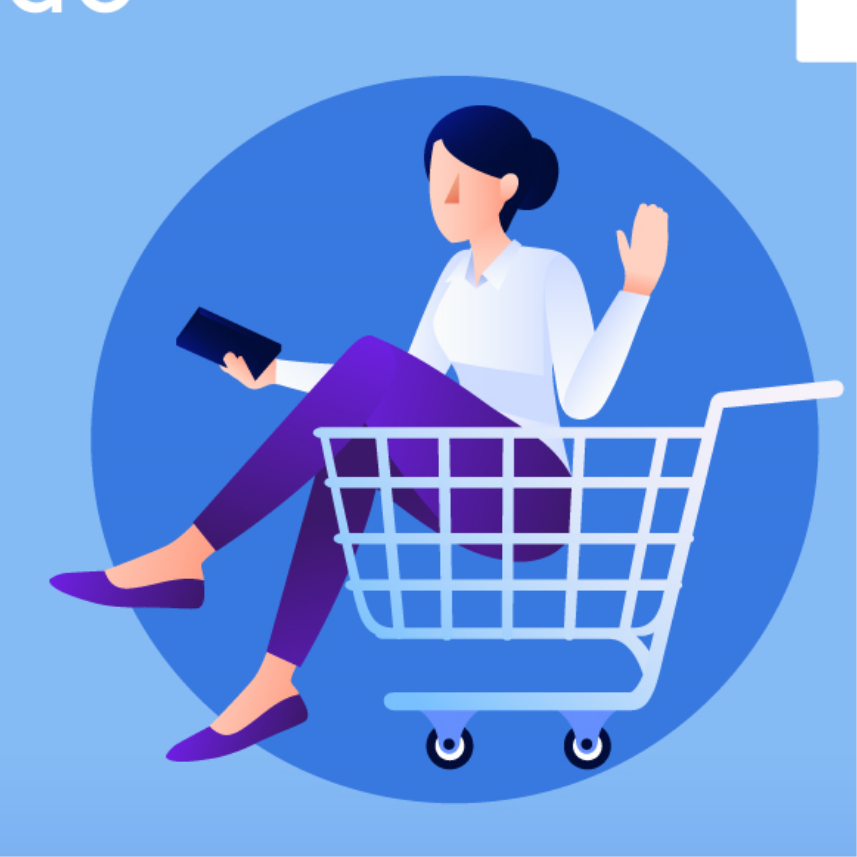
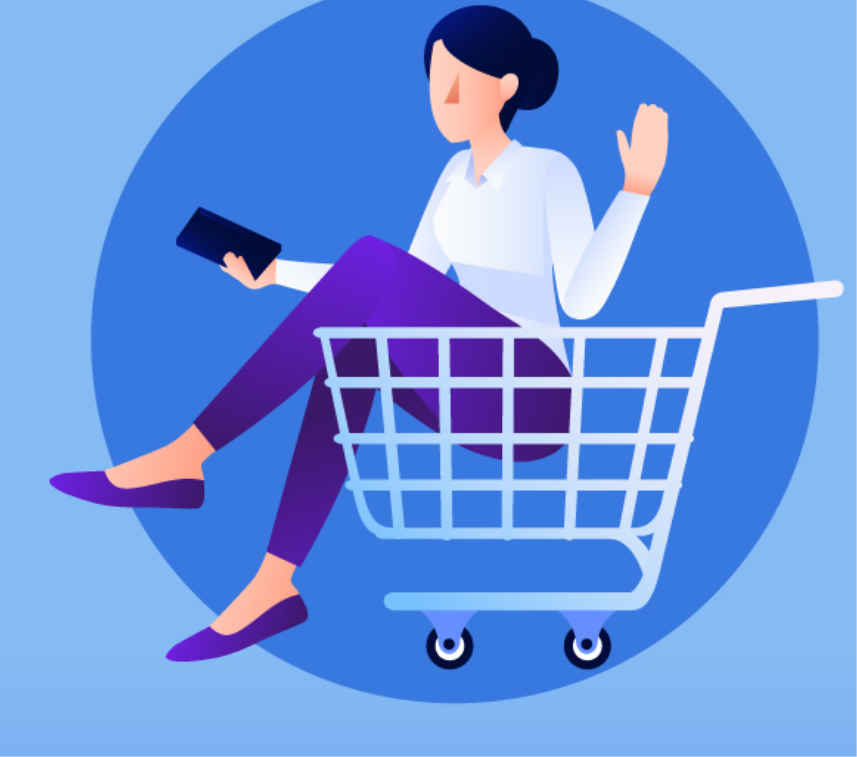
fix: clean up AuthModal's illustration image and match the design's layered card shape
Two real, distinct problems, both flagged directly:

- The illustration asset (2766594.png) had leftover artifacts from
  the original stock graphic baked into the file itself - a cropped
  text fragment and a white notch cut into the top corners, which
  read as a second small image sitting in the corner. Cropped the
  top 100px off with ImageMagick (857x857 -> 857x757), removing both
  artifacts; the clean circle-and-illustration content was untouched
  since it sat lower in the frame.

- The modal was rendered as one unified rounded rectangle split down
  the middle. Zoomed into the actual XD screen and found the real
  construction is two independently-rounded cards, each with their
  own shadow, vertically offset and overlapping by ~2rem (the white
  form card sits on top, starting higher and extending lower than the
  gray illustration card behind it) - not a single split card at all.
  Rebuilt .modal-content-custom--wide as a transparent flex wrapper
  around two separately-styled, separately-shadowed cards to match.

Caught a real regression while verifying live: the .btn-facebook fix
from the last pass broke again specifically when the button is
disabled, because Bootstrap's own .btn:disabled rule ties .btn.
btn-facebook's specificity (0,2,0 either way) and wins on source
order. Fixed by adding an explicit :disabled variant at higher
specificity for both .btn-facebook and .btn-confirm, verified via
computed styles rather than a visual read this time.
[…]

diff --git a/BookStore.client/src/styles/index.scss b/BookStore.client/src/styles/index.scss
@@ -32,25 +32,33 @@ $headings-font-weight: 700;
 }
 
 .modal-content-custom--wide {
-  max-width: 720px;
+  max-width: 760px;
   padding: 0;
+  background: transparent;
+  box-shadow: none;
   display: flex;
-  overflow: hidden;
+  align-items: center;
+  overflow: visible;
 }
 
 .auth-modal-illustration {
   display: none;
-  flex: 0 0 45%;
-  background: #f0f0f0;
+  flex: 0 0 46%;
+  background: #f5f5f5;
   color: $body-color;
   padding: 2rem;
   flex-direction: column;
   align-items: center;
   justify-content: center;
   text-align: center;
+  border-radius: 1rem;
+  box-shadow: 0 0.75rem 1.75rem rgba(0, 0, 0, 0.18);
+  position: relative;
+  z-index: 1;
+  margin-right: -2rem;
 
   img {
-    max-width: 100%;
+    max-width: 80%;
     margin-bottom: 1rem;
   }
 
@@ -61,8 +69,18 @@ $headings-font-weight: 700;
 
 .auth-modal-form {
   flex: 1 1 auto;
-  padding: 1.5rem;
   min-width: 0;
+  background: $body-bg;
+  border-radius: 1rem;
+  box-shadow: 0 0.75rem 1.75rem rgba(0, 0, 0, 0.18);
+  padding: 1.75rem;
+  position: relative;
+  z-index: 2;
+  margin-block: -0.75rem;
+
+  @media (max-width: 575.98px) {
+    margin-block: 0;
+  }
 }
 
 .auth-modal-tab {
@@ -104,9 +122,16 @@ $headings-font-weight: 700;
   color: #fff;
   border: none;
 
+  &:hover,
+  &:disabled {
+    background: #1877f2;
+    color: #fff;
+    opacity: 0.65;
+  }
+
   &:hover {
     background: #1461c7;
-    color: #fff;
+    opacity: 1;
   }
 }
 
@@ -115,9 +140,16 @@ $headings-font-weight: 700;
   color: #fff;
   border: none;
 
+  &:hover,
+  &:disabled {
+    background: #1a73e8;
+    color: #fff;
+    opacity: 0.65;
+  }
+
   &:hover {
     background: #1558b0;
-    color: #fff;
+    opacity: 1;
   }
 }
 
